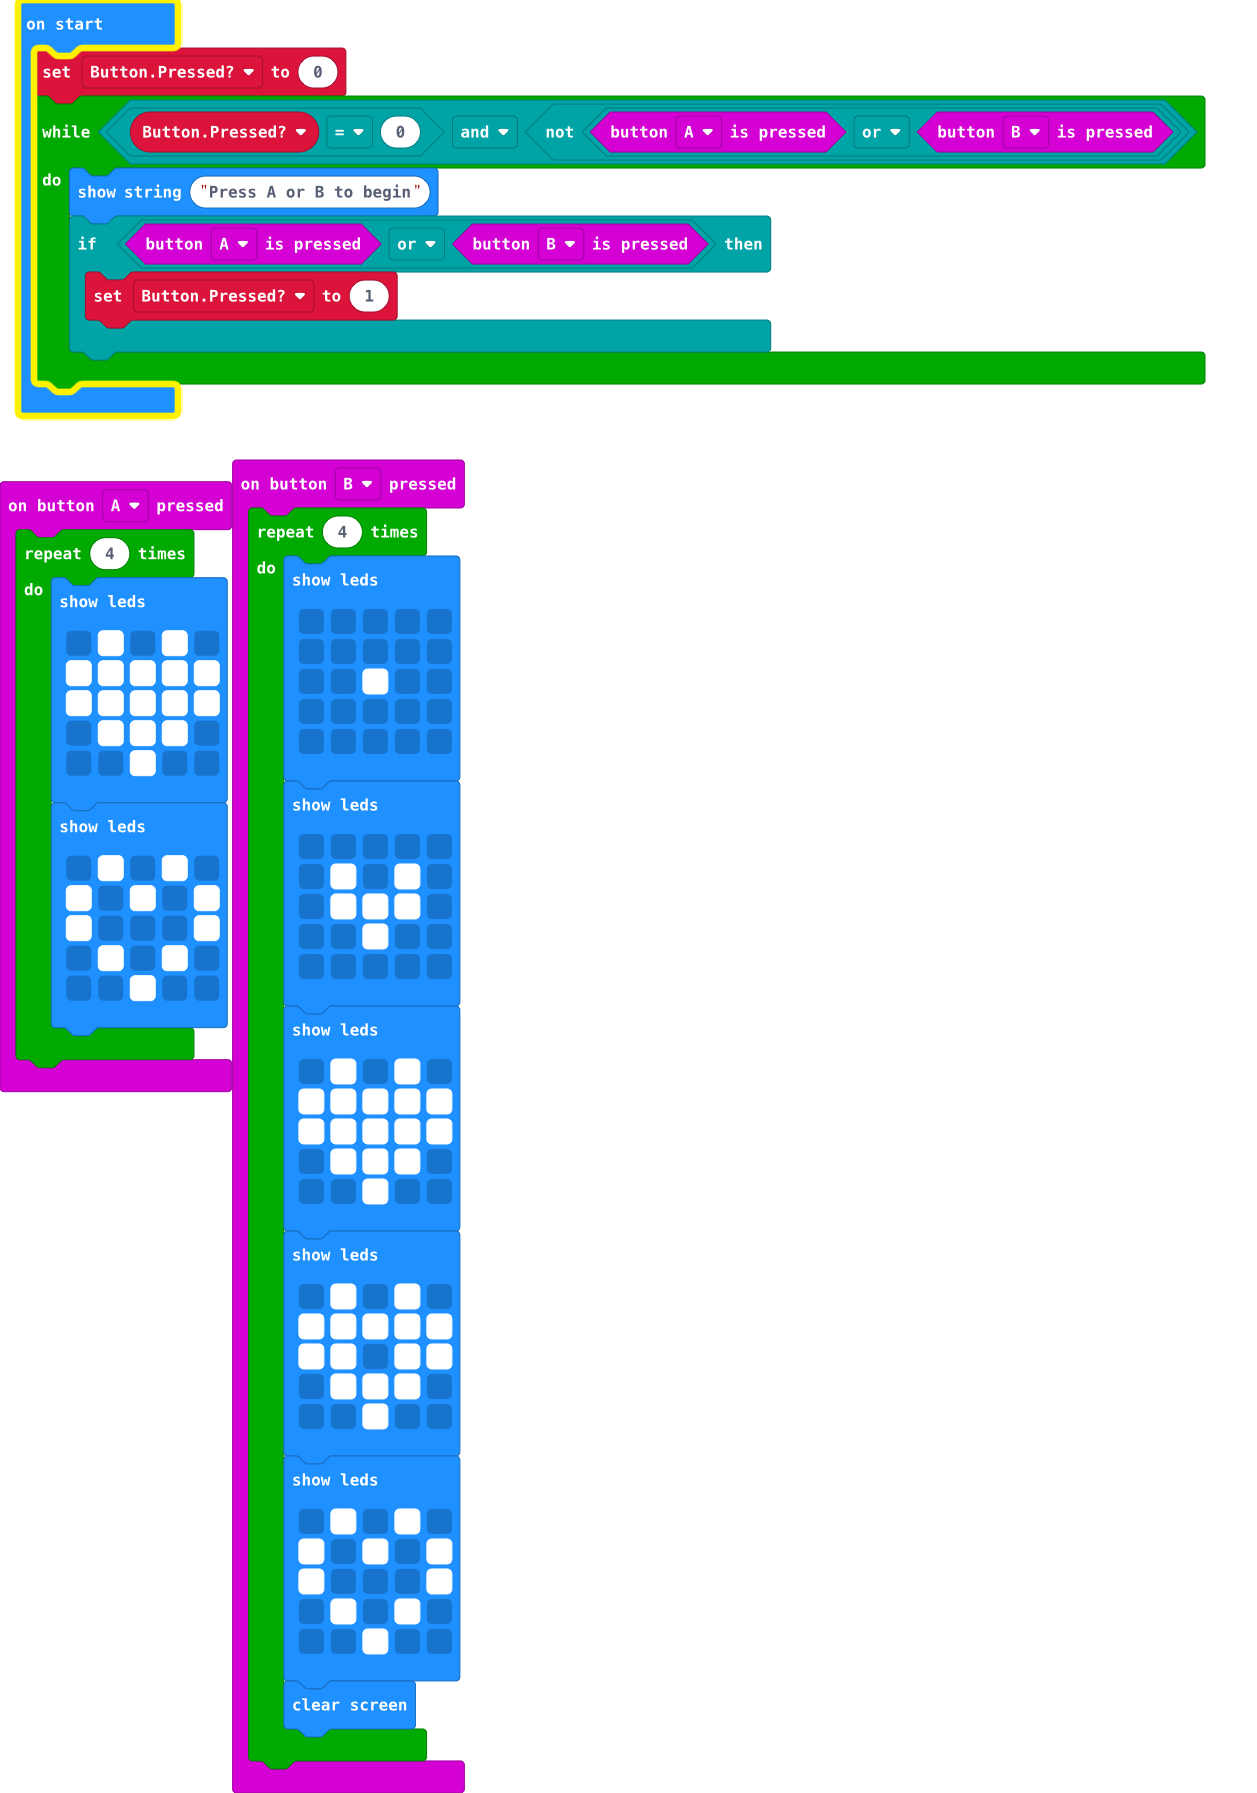
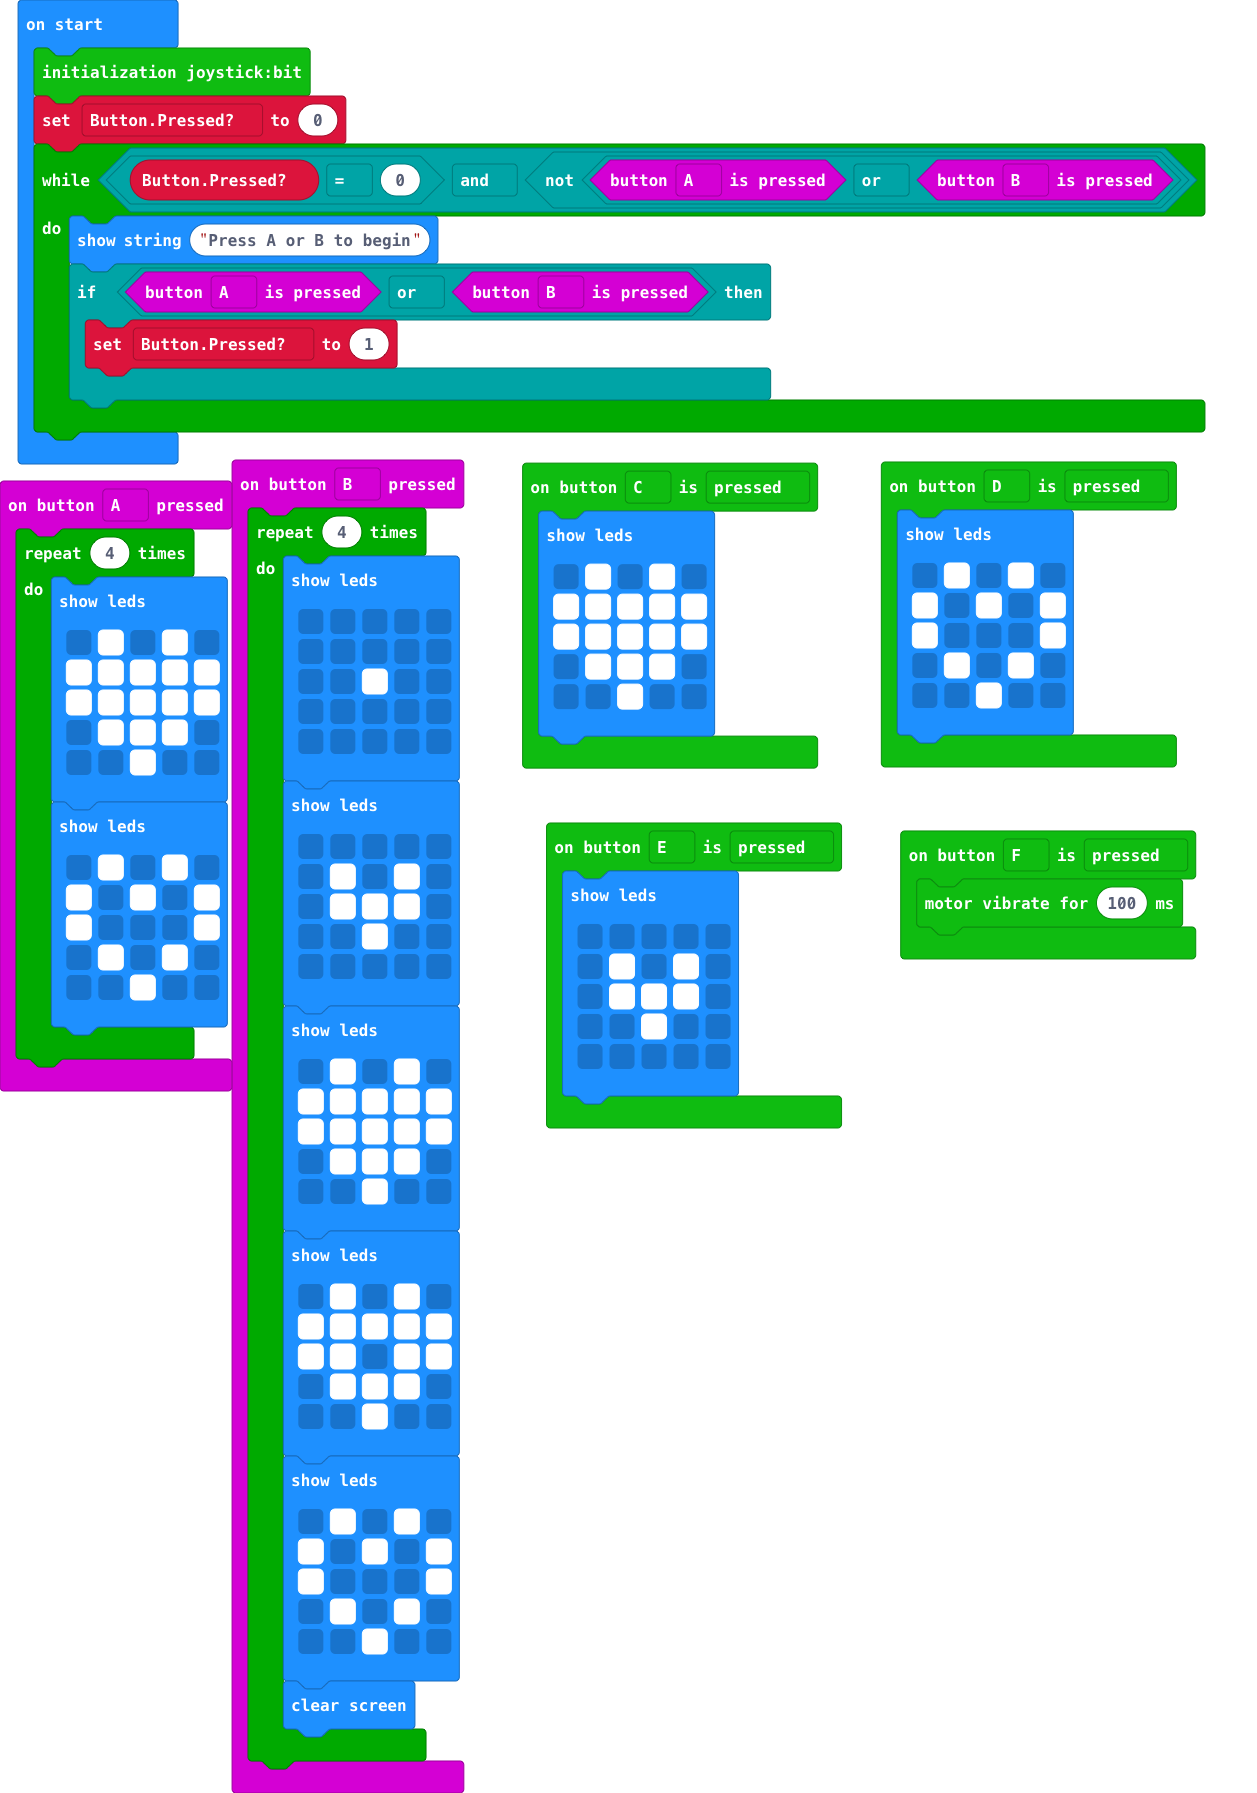
test functions added using joystick:bit

diff --git a/main.ts b/main.ts
@@ -1,3 +1,12 @@
+joystickbit.onButtonEvent(joystickbit.JoystickBitPin.P14, joystickbit.ButtonType.down, function () {
+    basic.showLeds(`
+        . . . . .
+        . # . # .
+        . # # # .
+        . . # . .
+        . . . . .
+        `)
+})
 input.onButtonPressed(Button.A, function () {
     for (let index = 0; index < 4; index++) {
         basic.showLeds(`
@@ -15,6 +24,9 @@ input.onButtonPressed(Button.A, function () {
             . . # . .
             `)
     }
+})
+joystickbit.onButtonEvent(joystickbit.JoystickBitPin.P15, joystickbit.ButtonType.down, function () {
+    joystickbit.Vibration_Motor(100)
 })
 input.onButtonPressed(Button.B, function () {
     for (let index = 0; index < 4; index++) {
@@ -56,6 +68,25 @@ input.onButtonPressed(Button.B, function () {
         basic.clearScreen()
     }
 })
+joystickbit.onButtonEvent(joystickbit.JoystickBitPin.P13, joystickbit.ButtonType.down, function () {
+    basic.showLeds(`
+        . # . # .
+        # . # . #
+        # . . . #
+        . # . # .
+        . . # . .
+        `)
+})
+joystickbit.onButtonEvent(joystickbit.JoystickBitPin.P12, joystickbit.ButtonType.down, function () {
+    basic.showLeds(`
+        . # . # .
+        # # # # #
+        # # # # #
+        . # # # .
+        . . # . .
+        `)
+})
+joystickbit.initJoystickBit()
 let ButtonPressed = 0
 while (ButtonPressed == 0 && !(input.buttonIsPressed(Button.A) || input.buttonIsPressed(Button.B))) {
     basic.showString("Press A or B to begin")
